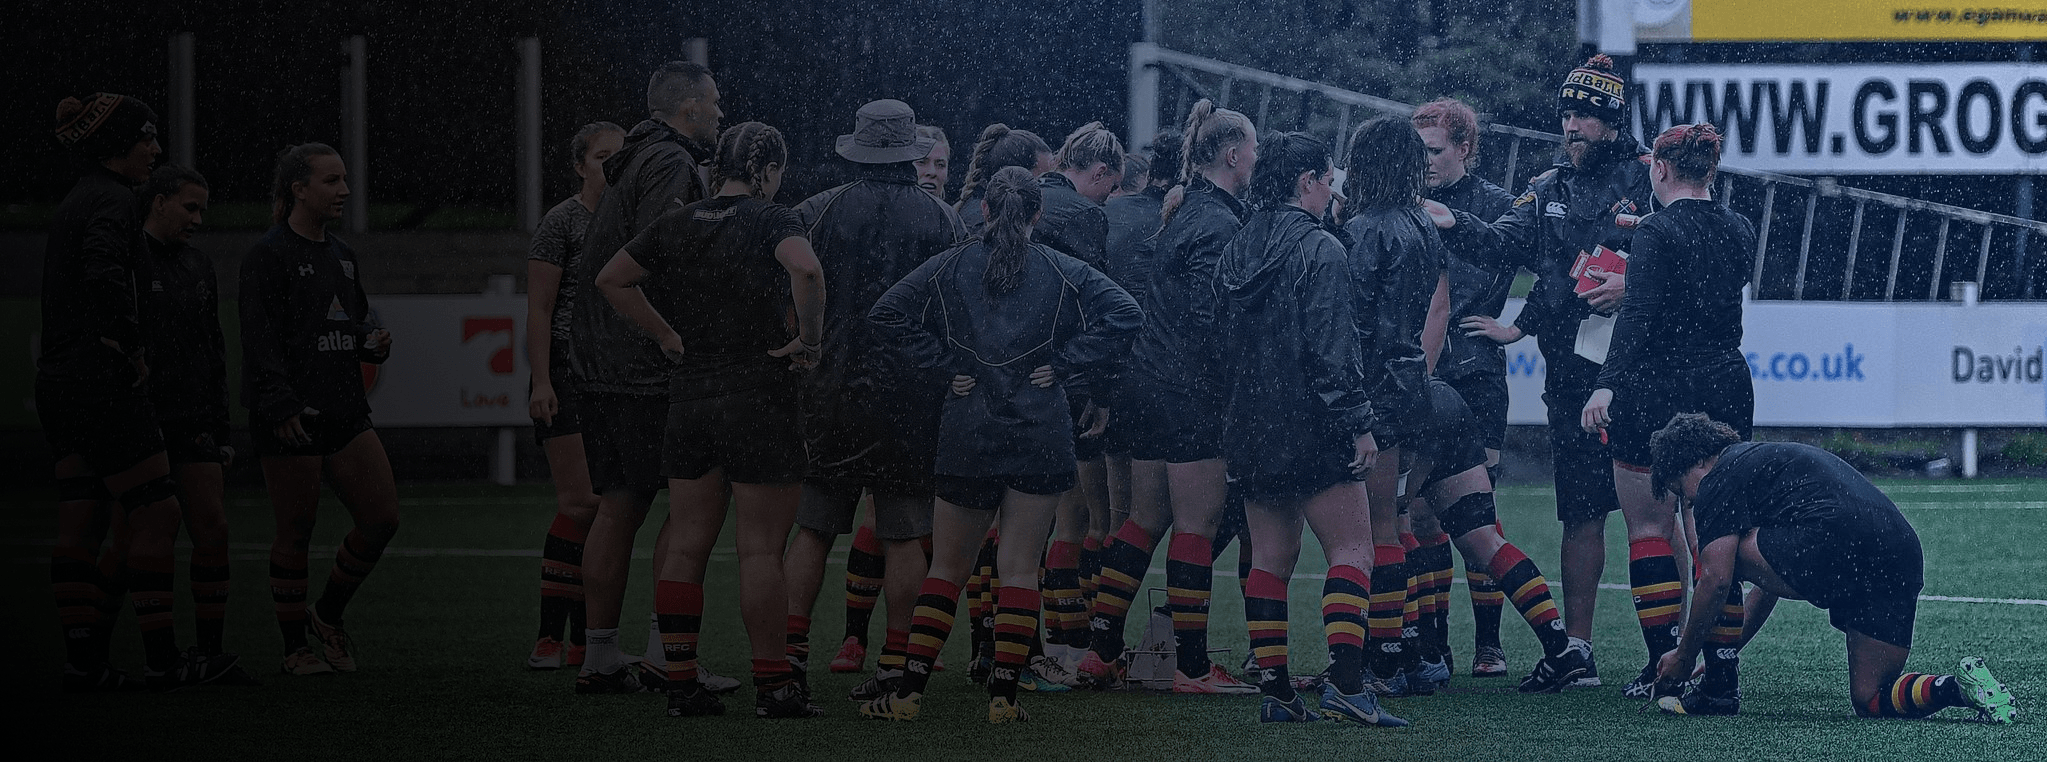
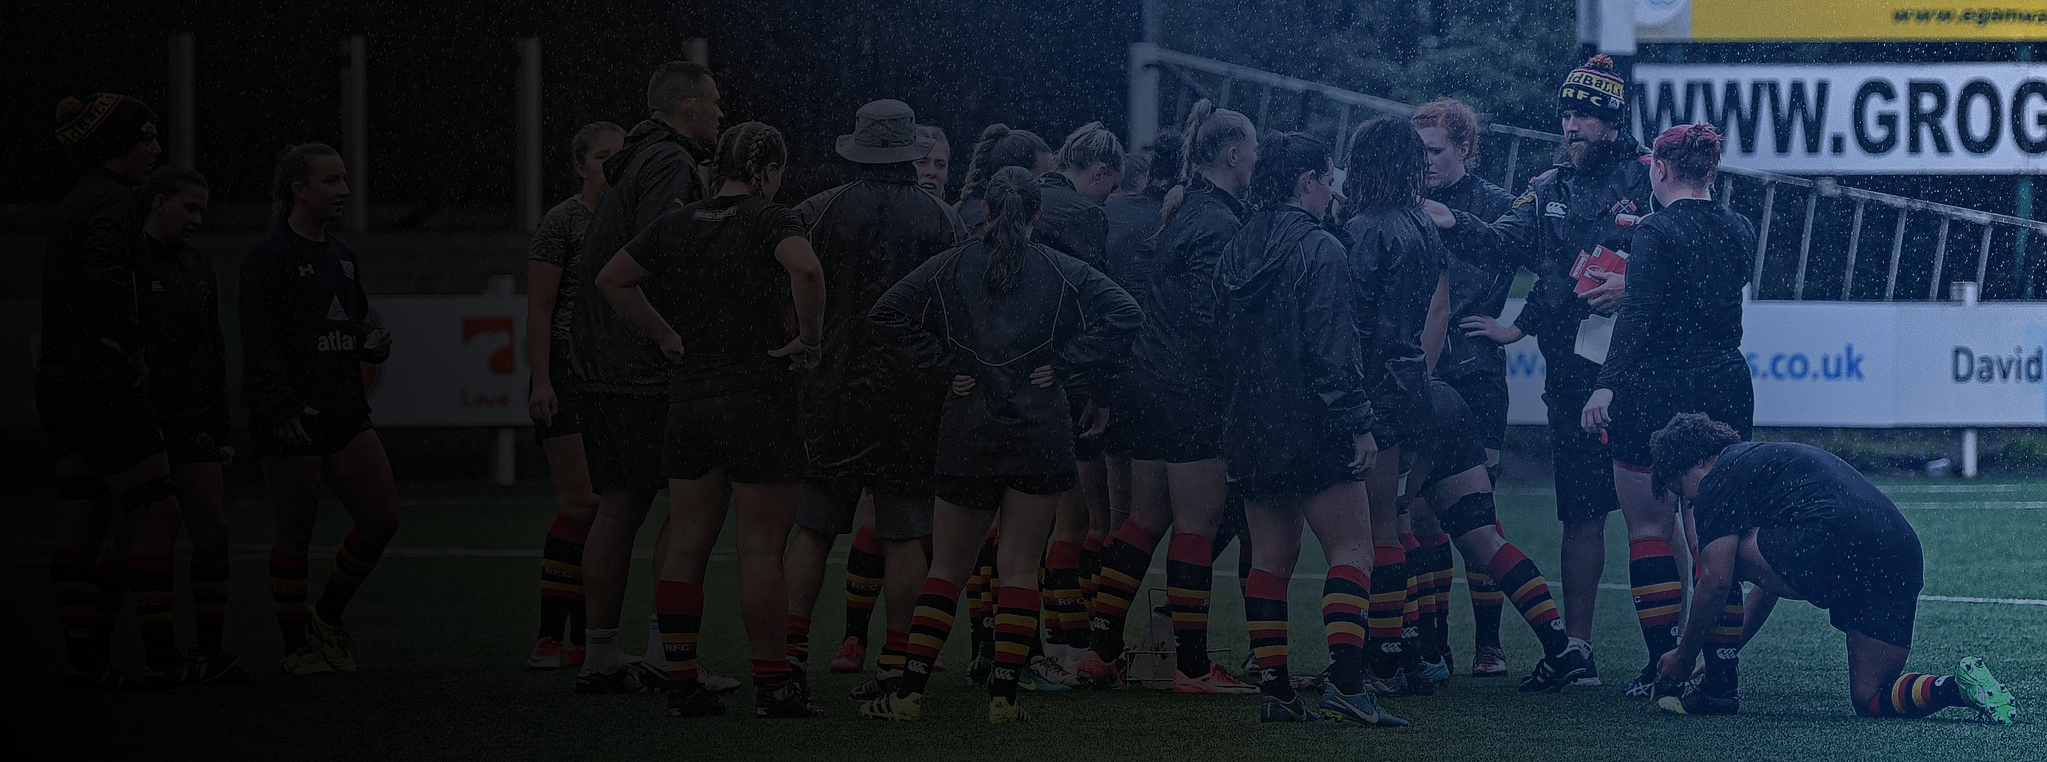
Altered Consult Page

diff --git a/Consultancy.html b/Consultancy.html
@@ -83,20 +83,22 @@
   <h1 class="consultancy__h1">
     CONSULTANCY
   </h1>
-  <div class="consultancy_showcase">
-    <p class="consultancy_showcase-para">
-      Griff provides <b>data-driven</b> and <b>innovative human performance</b> services for athletes and teams. When
-      it comes to improving performance, individualising our approach is key. Griff utilizes a
-      <b>Plan-Do-Review</b>
-      process
-      which
-      allows us to integrate a range of services aimed at providing performance support to the individual and team. The
-      key performance pillars include <b>mindset</b>, <b>movement competency</b>, <b>optimal physiological status</b>,
-      and <b>appropriate nutrition</b>.
-    </p>
+  <div class="consultancy_background-showcase">
+    <div class="consultancy_showcase">
+      <p class="consultancy_showcase-para">
+        Griff provides <b>data-driven</b> and <b>innovative human performance</b> services for athletes and teams. When
+        it comes to improving performance, individualising our approach is key. Griff utilizes a
+        <b>Plan-Do-Review</b>
+        process
+        which
+        allows us to integrate a range of services aimed at providing performance support to the individual and team.
+        The
+        key performance pillars include <b>mindset</b>, <b>movement competency</b>, <b>optimal physiological status</b>,
+        and <b>appropriate nutrition</b>.
+      </p>
+    </div>
   </div>
-  <div class="consultancy_para" id="consultPara">
-  </div>
+
   <h3 class="consultancy__h3">
     SERVICES
   </h3>
@@ -170,7 +172,7 @@
         Looking for high performance services?
       </h3>
       <h3 id="contact" class="contact__h3">
-        Get in touch.
+        Get in touch
       </h3>
       <div class="research__Contact chev_hover">
         <a href="mailto:griff@jonathan-griffin.com?subject=Getting%20In%20Contact" class="chev_hover-a">

diff --git a/script.js b/script.js
@@ -5,6 +5,19 @@ const ContentEl = document.querySelector('.content');
 const hamburgerBarsEl = document.getElementsByTagName('span');
 import timeline from './timeline/js/timeline.js';
 
+function toggleNav() {
+  navTriggerEl.addEventListener('click', function () {
+    navEl.classList.toggle('open');
+    animateHamburgers();
+  });
+}
+toggleNav();
+function animateHamburgers() {
+  for (let item of hamburgerBarsEl) {
+    item.classList.toggle('change');
+  }
+}
+
 timeline(document.querySelectorAll('#timeline-horizontal'), {
   forceVerticalMode: 800,
   mode: 'horizontal',
@@ -14,19 +27,6 @@ timeline(document.querySelectorAll('#timeline-vertical'), {
   verticalStartPosition: 'right',
   verticalTrigger: '150px',
 });
-
-function toggleNav() {
-  navTriggerEl.addEventListener('click', function () {
-    navEl.classList.toggle('open');
-    animateHamburgers();
-  });
-}
-function animateHamburgers() {
-  for (let item of hamburgerBarsEl) {
-    item.classList.toggle('change');
-  }
-}
-toggleNav();
 
 // Accordian javascript
 let accordionItemsEl = document.getElementsByClassName('accordion__item');

diff --git a/styles.css b/styles.css
@@ -1128,6 +1128,13 @@
   -ms-flex-pack: distribute;
   justify-content: space-around;
 }
+.consultancy_background-showcase {
+  background: url('./assets/consultancy/consultancyPara.png') no-repeat center center/cover;
+  width: 100%;
+  height: fit-content;
+  margin: 2rem 0;
+  padding: 1.5rem;
+}
 .consultancy_showcase {
   height: 500px;
   max-width: 960px;
@@ -1145,6 +1152,7 @@
   font-weight: 400;
   position: relative;
   line-height: 1.8rem;
+  color: #fff;
 }
 .consultancy_showcase-para::before {
   content: '';
@@ -1305,7 +1313,7 @@
   text-align: start;
   color: #fff;
   word-spacing: 5px;
-  font-weight: 700;
+  font-weight: 800;
 }
 .contact__h3 {
   margin: 2rem 15px;
@@ -1314,7 +1322,7 @@
   text-align: start;
   color: #fff;
   word-spacing: 5px;
-  font-weight: 700;
+  font-weight: 800;
 }
 
 #fs-frm-inputs {

diff --git a/Experience.html b/Experience.html
@@ -397,7 +397,7 @@
           Looking for high performance services?
         </h3>
         <h3 id="contact" class="contact__h3 dark-font">
-          Get in touch.
+          Get in touch
         </h3>
         <div class="research__Contact chev_hover">
           <a href="mailto:griff@jonathan-griffin.com?subject=Getting%20In%20Contact" class="chev_hover-a">
